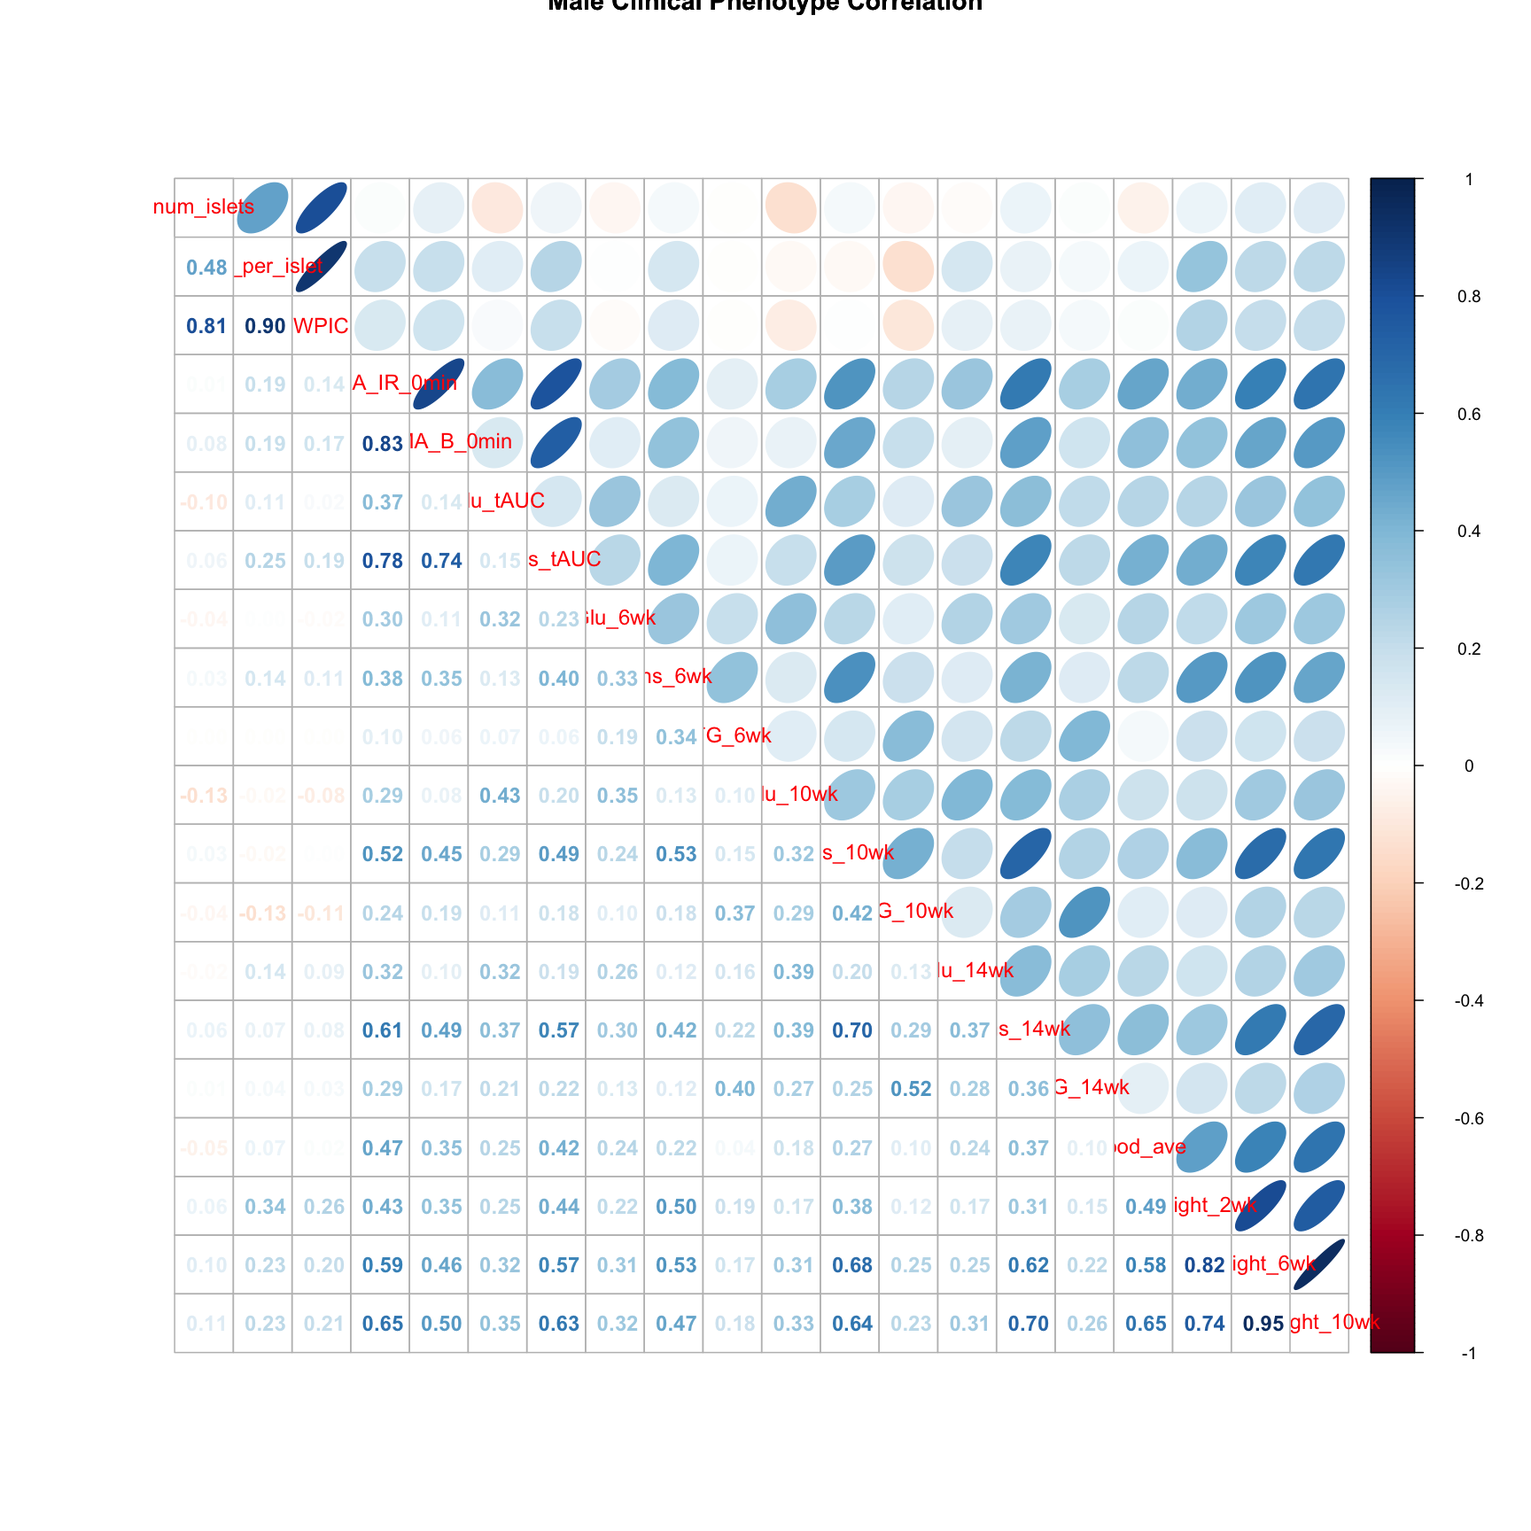
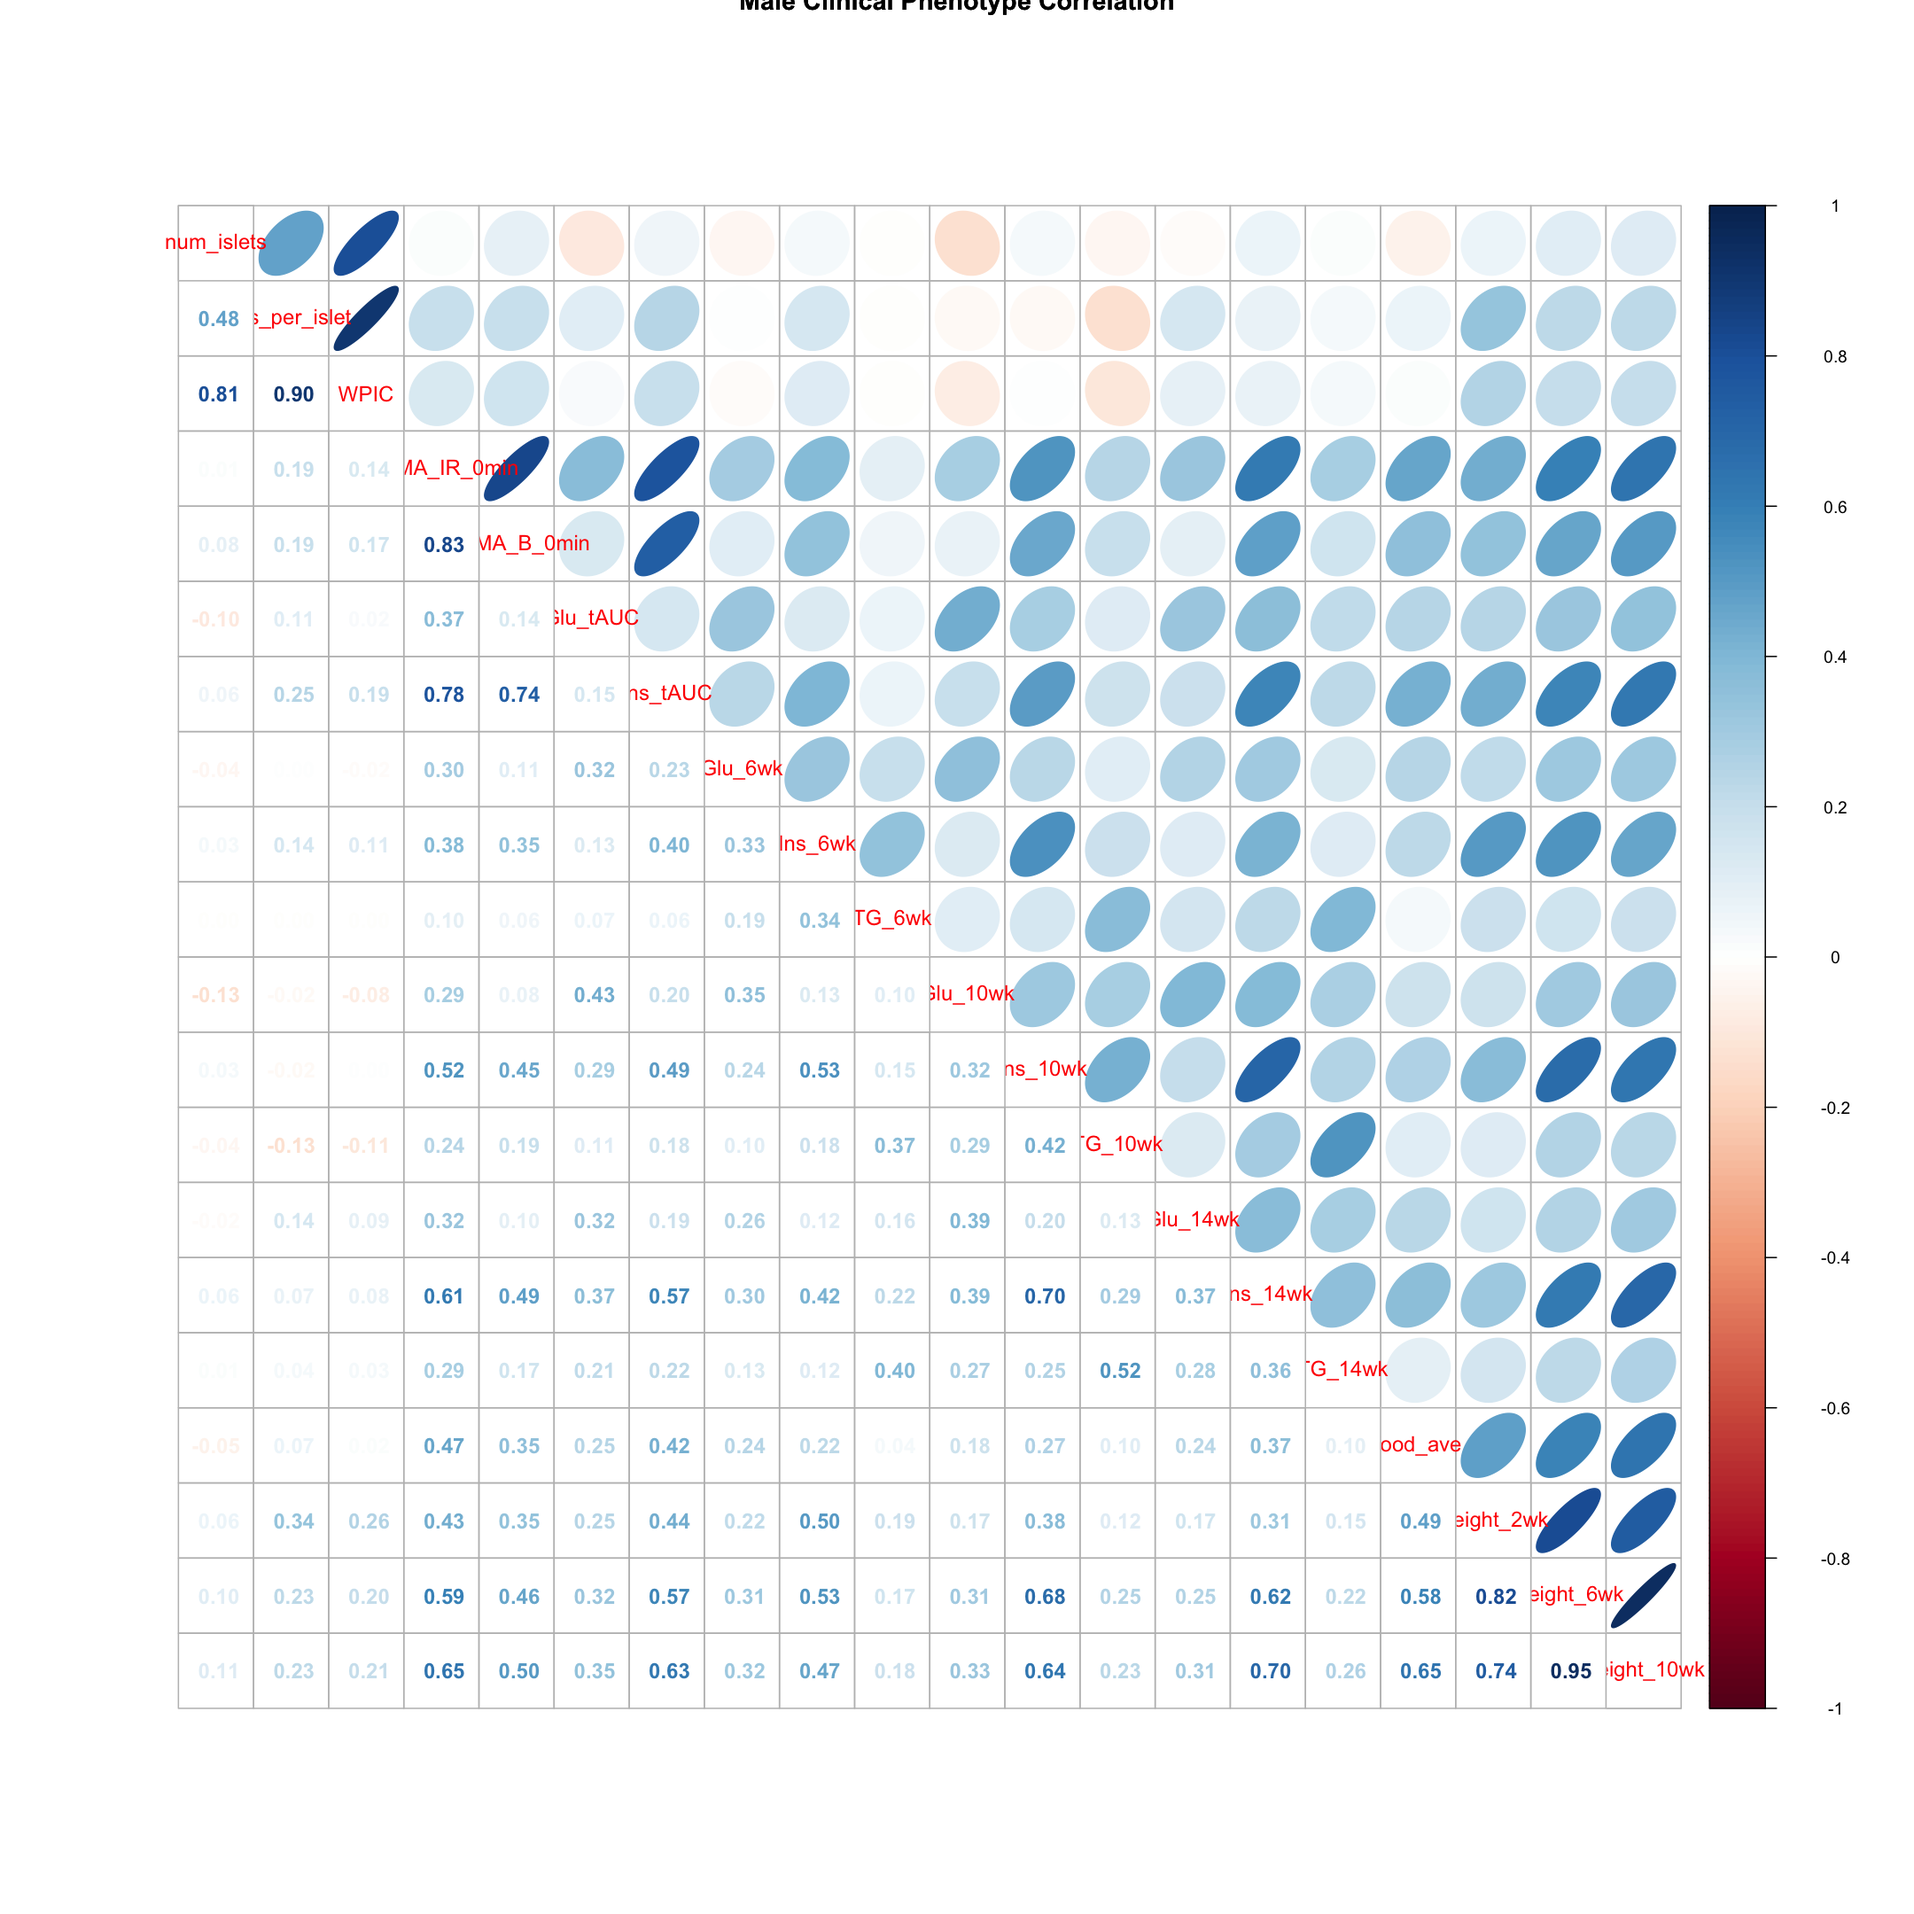
increase size of corrplots

Changed region(s): [[0.0938, 0.0938, 0.9688, 0.9062], [0.375, 0.0, 0.625, 0.0312]]

diff --git a/_episodes/02-load-explore-data.md b/_episodes/02-load-explore-data.md
@@ -435,7 +435,7 @@ corrplot.mixed(tmp, upper = "ellipse", lower = "number",
 ~~~
 {: .language-r}
 
-<img src="../fig/rmd-02-unnamed-chunk-2-1.png" title="plot of chunk unnamed-chunk-2" alt="plot of chunk unnamed-chunk-2" width="864" style="display: block; margin: auto;" />
+<img src="../fig/rmd-02-unnamed-chunk-2-1.png" title="plot of chunk unnamed-chunk-2" alt="plot of chunk unnamed-chunk-2" width="1080" style="display: block; margin: auto;" />
 
 Males
 
@@ -452,6 +452,6 @@ corrplot.mixed(tmp, upper = "ellipse", lower = "number",
 ~~~
 {: .language-r}
 
-<img src="../fig/rmd-02-unnamed-chunk-3-1.png" title="plot of chunk unnamed-chunk-3" alt="plot of chunk unnamed-chunk-3" width="864" style="display: block; margin: auto;" />
+<img src="../fig/rmd-02-unnamed-chunk-3-1.png" title="plot of chunk unnamed-chunk-3" alt="plot of chunk unnamed-chunk-3" width="1080" style="display: block; margin: auto;" />
 
 ## Gene Expression Phenotypes
